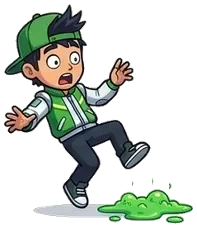
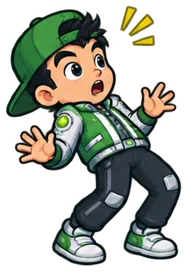
Remove baked backgrounds from character sprites

diff --git a/sw.js b/sw.js
@@ -1,4 +1,4 @@
-const CACHE_NAME = 'name-picker-vol3-v19';
+const CACHE_NAME = 'name-picker-vol3-v20';
 const PRECACHE = [
   "./",
   "./index.html",
